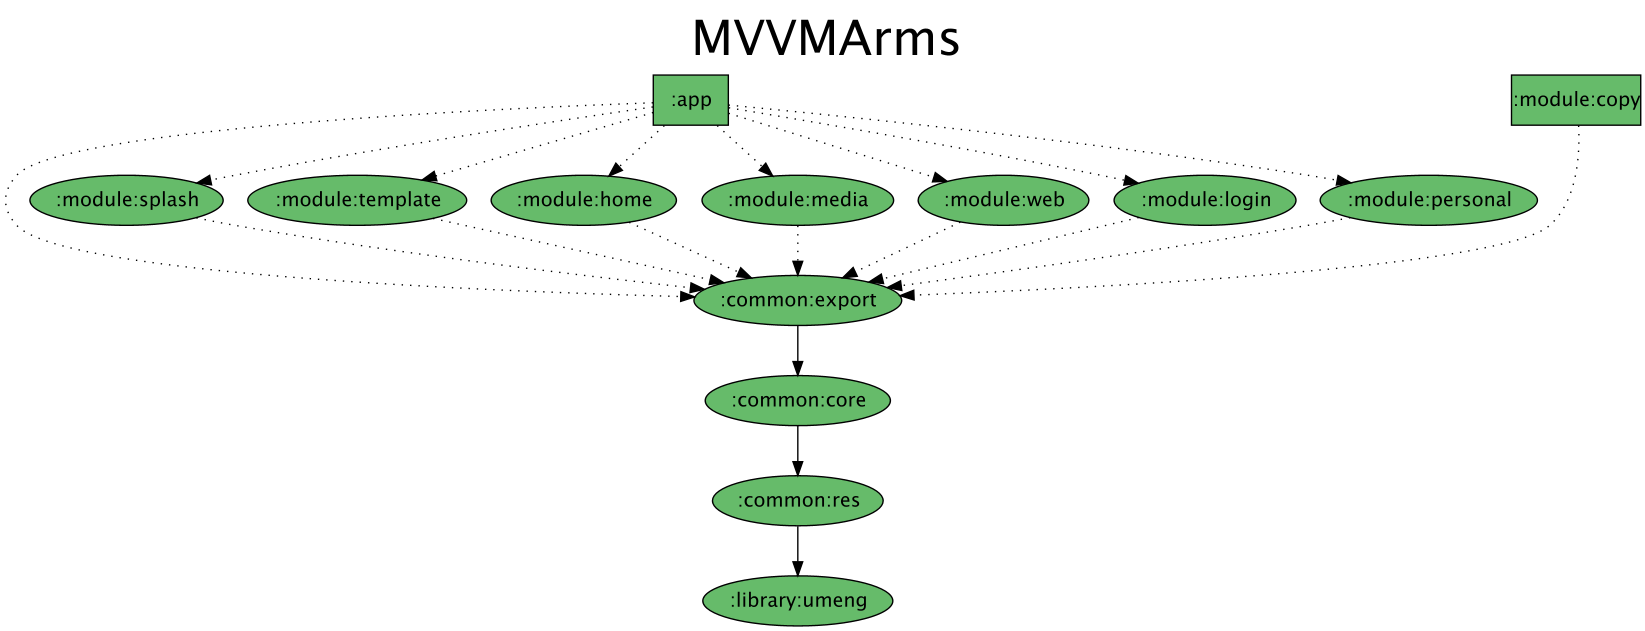
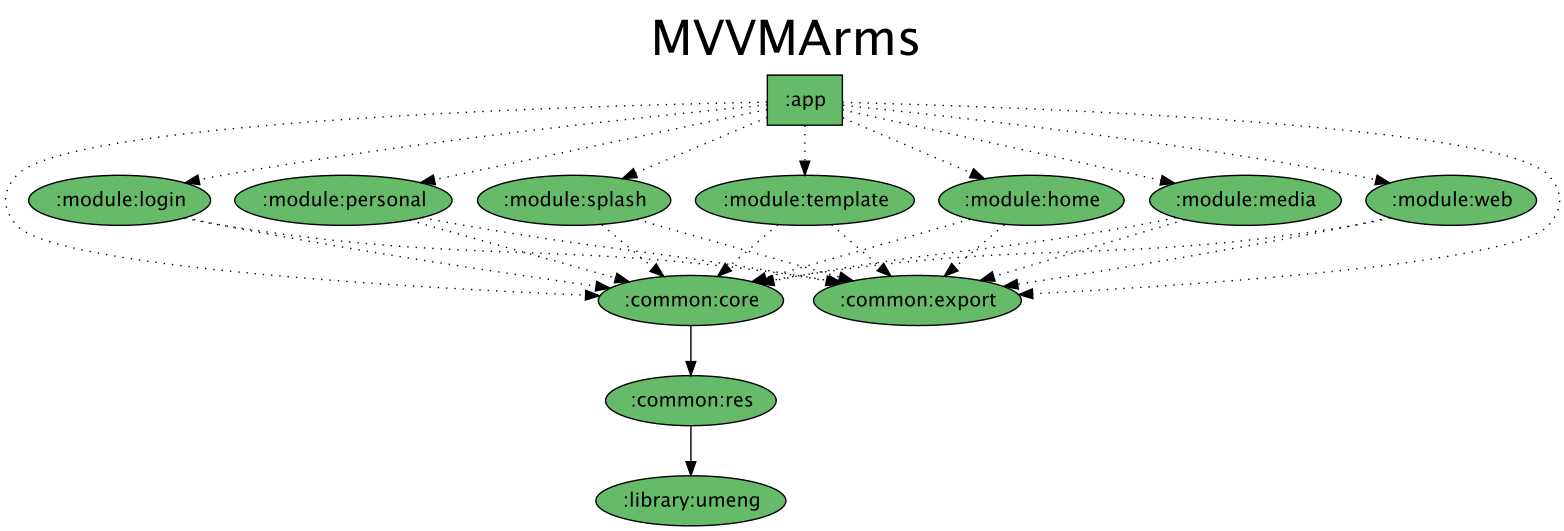
export抽出来

diff --git a/common/export/src/main/java/com/common/export/arouter/service/IMediaService.kt b/common/export/src/main/java/com/common/export/arouter/service/IMediaService.kt
@@ -1,8 +1,8 @@
 package com.common.export.arouter.service
 
+import android.app.Activity
 import android.content.Context
 import com.alibaba.android.arouter.facade.template.IProvider
-import com.common.core.base.BaseActivity
 import com.common.export.callback.OnCameraListener
 import com.common.export.callback.OnCropListener
 import com.common.export.callback.OnPhotoSelectListener
@@ -13,15 +13,15 @@ interface IMediaService : IProvider {
 
 
     fun startImageSelectActivity(
-        activity: BaseActivity<*>, maxSelect: Int, listener: OnPhotoSelectListener
+        activity: Activity, maxSelect: Int, listener: OnPhotoSelectListener
     )
 
     fun startCameraActivity(
-        activity: BaseActivity<*>, video: Boolean, listener: OnCameraListener
+        activity: Activity, video: Boolean, listener: OnCameraListener
     )
 
     fun startImageCropActivity(
-        activity: BaseActivity<*>,
+        activity: Activity,
         file: File,
         cropRatioX: Int,
         cropRatioY: Int,
@@ -33,7 +33,7 @@ interface IMediaService : IProvider {
     )
 
     fun startVideoSelectActivity(
-        activity: BaseActivity<*>, maxSelect: Int, listener: OnVideoSelectListener
+        activity: Activity, maxSelect: Int, listener: OnVideoSelectListener
     )
 
 

diff --git a/common/export/src/main/java/com/common/export/launcher/LauncherActivity.kt b/common/export/src/main/java/com/common/export/launcher/LauncherActivity.kt
@@ -8,14 +8,14 @@ import android.widget.Button
 import android.widget.LinearLayout
 import androidx.appcompat.app.AppCompatActivity
 import androidx.core.graphics.drawable.toDrawable
-import com.common.res.R
+import com.common.export.R
 
 class LauncherActivity : AppCompatActivity() {
 
 
     override fun onCreate(savedInstanceState: Bundle?) {
         super.onCreate(savedInstanceState)
-        setContentView(R.layout.res_activity_launcher)
+        setContentView(R.layout.export_activity_launcher)
         val linearLayout = findViewById<LinearLayout>(R.id.root)
         packageManager.getPackageInfo(
             packageName, PackageManager.GET_ACTIVITIES

diff --git a/buildSrc/src/main/java/com/common/plugin/CommonDependencies.kt b/buildSrc/src/main/java/com/common/plugin/CommonDependencies.kt
@@ -13,6 +13,7 @@ internal fun Project.configureDependencies() = dependencies.apply {
         add("androidTestImplementation", Deps.espressoCore)
         add("implementation", "com.bytedance.tools.codelocator:codelocator-core:2.0.3")
     }
+    add("implementation", project(":common:core"))
     add("implementation", project(":common:export"))
     add("implementation", Deps.arouterApi)
     add("kapt", Deps.arouterCompiler)

diff --git a/module/media/src/main/java/com/common/media/arouter/service/MediaServiceImpl.java b/module/media/src/main/java/com/common/media/arouter/service/MediaServiceImpl.java
@@ -1,5 +1,6 @@
 package com.common.media.arouter.service;
 
+import android.app.Activity;
 import android.content.Context;
 
 import androidx.annotation.NonNull;
@@ -30,19 +31,19 @@ public class MediaServiceImpl implements IMediaService {
     }
 
     @Override
-    public void startImageSelectActivity(@NonNull BaseActivity<?> activity, int maxSelect, @NonNull OnPhotoSelectListener listener) {
-        ImageSelectActivity.start(activity, maxSelect, listener);
+    public void startImageSelectActivity(@NonNull Activity activity, int maxSelect, @NonNull OnPhotoSelectListener listener) {
+        ImageSelectActivity.start((BaseActivity) activity, maxSelect, listener);
     }
 
 
     @Override
-    public void startCameraActivity(@NonNull BaseActivity<?> activity, boolean video, @NonNull OnCameraListener listener) {
-        CameraActivity.start(activity, video, listener);
+    public void startCameraActivity(@NonNull Activity activity, boolean video, @NonNull OnCameraListener listener) {
+        CameraActivity.start((BaseActivity) activity, video, listener);
     }
 
     @Override
-    public void startImageCropActivity(@NonNull BaseActivity<?> activity, @NonNull File file, int cropRatioX, int cropRatioY, @NonNull OnCropListener listener) {
-        ImageCropActivity.start(activity, file, cropRatioX, cropRatioY, listener);
+    public void startImageCropActivity(@NonNull Activity activity, @NonNull File file, int cropRatioX, int cropRatioY, @NonNull OnCropListener listener) {
+        ImageCropActivity.start((BaseActivity) activity, file, cropRatioX, cropRatioY, listener);
     }
 
     @Override
@@ -51,7 +52,7 @@ public class MediaServiceImpl implements IMediaService {
     }
 
     @Override
-    public void startVideoSelectActivity(@NonNull BaseActivity<?> activity, int maxSelect, @NonNull OnVideoSelectListener listener) {
-        VideoSelectActivity.start(activity,maxSelect,listener);
+    public void startVideoSelectActivity(@NonNull Activity activity, int maxSelect, @NonNull OnVideoSelectListener listener) {
+        VideoSelectActivity.start((BaseActivity) activity,maxSelect,listener);
     }
 }
